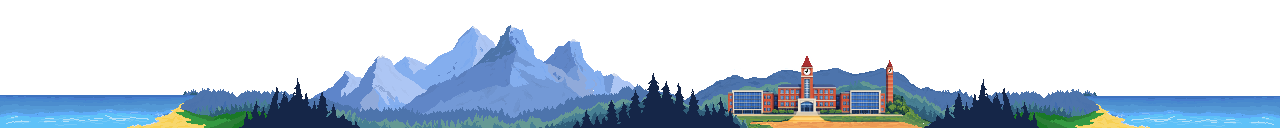
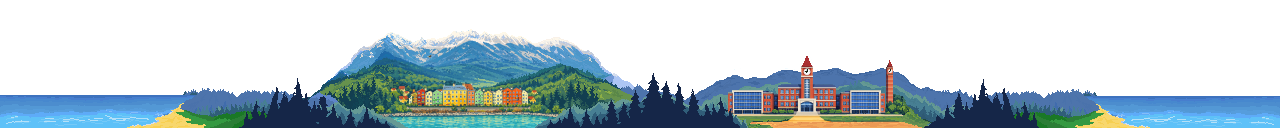
add ibk bg and photo gear text

Changed region(s): [[0.2188, 0.2188, 0.5, 1.0]]

diff --git a/informatics/js/data.js b/informatics/js/data.js
@@ -31,12 +31,10 @@ const translations = {
     "experience.title": "EDUCATION & EXPERIENCE",
     "room.bsc.title": "BSc. INFORMATICS",
     "room.bsc.summary":
-      "Computer Science foundation. (University of Innsbruck, 2022).",
-    "room.bsc.desc1":
-      "Bachelor's degree in Computer Science at the University of Innsbruck, completed in 2022.<br />",
-    "room.bsc.desc2":
-      "A broad foundation across core informatics disciplines — from algorithms and systems to machine learning and software development.",
-    "room.bsc.desc3": "Click to explore experience, competences & more.",
+      "My degree in computer science at the University of Innsbruck.",
+    "room.bsc.desc1": "It provided a great foundation in informatics!<br />",
+    "room.bsc.desc2": "And I graduated from it in 2022.",
+    "room.bsc.desc3": "Click to explore what I learned there.",
     "room.msc.title": "MSc. MEDIA & HUMAN-CENTRED COMPUTING",
     "room.msc.summary":
       "I graduated from TU Wien in 2026. Click here to here my thoughts about the programme.",
@@ -68,9 +66,9 @@ const translations = {
     "cs.focus.label": "FOCUS:",
     "cs.focus.value": "Interactive Media & UX, Critical Reflection, AI Ethics",
     "cs.footer": "use < and > to explore each chapter",
-    "chapter.1": "CHAPTER 1 \u2014 INNSBRUCK",
-    "chapter.2": "CHAPTER 2 \u2014 MASTER",
-    "chapter.3": "CHAPTER 3 \u2014 WORK EXPERIENCE",
+    "chapter.1": "CHAPTER 1: INNSBRUCK",
+    "chapter.2": "CHAPTER 2: VIENNA",
+    "chapter.3": "CHAPTER 3: WORK EXPERIENCE",
     "cs.work.placeholder": "[MORE COMING SOON]",
     "cs.work.placeholder.summary": "Placeholder for future entries.",
     "cs.work.placeholder.desc":
@@ -97,12 +95,12 @@ const translations = {
     "experience.title": "AUSBILDUNG & ERFAHRUNG",
     "room.bsc.title": "BSc. INFORMATIK",
     "room.bsc.summary":
-      "Informatik-Grundlagen. (Universit\u00e4t Innsbruck, 2022).",
+      "An der Universit\u00e4t Innsbruck hab ich einen meinen Informatik-Bachelor gemacht!",
     "room.bsc.desc1":
-      "Bachelorabschluss in Informatik an der Universit\u00e4t Innsbruck, 2022.<br />",
-    "room.bsc.desc2":
-      "Eine breite Grundlage \u00fcber alle Kerndisziplinen der Informatik — von Algorithmen und Systemen bis hin zu maschinellem Lernen und Softwareentwicklung.",
-    "room.bsc.desc3": "Klicke f\u00fcr Erfahrungen, Kompetenzen & mehr.",
+      "Er bot eine breite Grundlage \u00fcber alle Kerndisziplinen der Informatik<br />",
+    "room.bsc.desc2": "und ich hab ihn 2022 abgeschlossen.",
+    "room.bsc.desc3":
+      "Klicke um mehr zu Erfahren, was ich dort so gelernt hab.",
     "room.msc.title": "MSc. MEDIA & HUMAN-CENTRED COMPUTING",
     "room.msc.summary":
       "Abgeschlossen an der TU Wien in 2026. Klick hier f\u00fcr meine Gedanken über diesen Master.",
@@ -137,9 +135,9 @@ const translations = {
     "cs.location.label": "WOHNHAFT:",
     "cs.location.value": "Wien, \u00d6sterreich",
     "cs.footer": "< und > nutzen, um die Kapitel zu erkunden",
-    "chapter.1": "KAPITEL 1 \u2014 INNSBRUCK",
-    "chapter.2": "KAPITEL 2 \u2014 MASTER",
-    "chapter.3": "KAPITEL 3 \u2014 BERUFSERFAHRUNG",
+    "chapter.1": "1. STATION: INNSBRUCK",
+    "chapter.2": "2. STATION: WIEN",
+    "chapter.3": "3. STATION: BERUFSERFAHRUNG",
     "cs.work.placeholder": "[MEHR FOLGT BALD]",
     "cs.work.placeholder.summary":
       "Platzhalter f\u00fcr zuk\u00fcnftige Eintr\u00e4ge.",

diff --git a/photography/drpano/darkroom.css b/photography/drpano/darkroom.css
@@ -257,9 +257,39 @@ body {
   text-shadow: 0 0 32px rgba(230, 126, 34, 0.6);
 }
 
+/* zines section button */
+#zines-btn {
+  position: fixed;
+  inset: 0;
+  z-index: 30;
+  display: flex;
+  align-items: center;
+  justify-content: center;
+  font-family: "Press Start 2P", monospace;
+  font-size: 14px;
+  color: var(--text);
+  background: transparent;
+  border: none;
+  letter-spacing: 3px;
+  opacity: 0;
+  pointer-events: none;
+  transition: opacity 0.4s;
+  cursor: pointer;
+  text-shadow: 0 0 24px rgba(200, 168, 130, 0.5);
+}
+#zines-btn.visible {
+  opacity: 1;
+  pointer-events: all;
+}
+#zines-btn:hover {
+  color: var(--amber);
+  text-shadow: 0 0 32px rgba(230, 126, 34, 0.6);
+}
+
 /* shared label border for clickable overlay buttons */
 #portfolio-btn span,
 #gear-btn span,
+#zines-btn span,
 #leave-btn span {
   border: 1px solid rgba(200, 168, 130, 0.4);
   padding: 14px 22px;
@@ -321,9 +351,11 @@ body {
   position: relative;
   background: #130a00;
   border: 1px solid var(--muted);
-  padding: 40px 36px 36px;
-  max-width: 520px;
+  padding: 48px 48px 44px;
+  max-width: 720px;
   width: 90%;
+  max-height: 85vh;
+  overflow-y: auto;
 }
 #gear-modal-close {
   position: absolute;
@@ -342,10 +374,15 @@ body {
 }
 #gear-modal-content {
   font-family: "Courier New", monospace;
-  font-size: 13px;
+  font-size: 15px;
   color: var(--text);
   line-height: 1.9;
-  white-space: pre-wrap;
+}
+#gear-modal-content p {
+  margin-bottom: 1.4em;
+}
+#gear-modal-content p:last-child {
+  margin-bottom: 0;
 }
 
 /* leave darkroom button */
@@ -527,6 +564,14 @@ body {
   transition: width 0.8s ease;
 }
 
+/* hide nav zones and topbar back btn when the carousel is open */
+body.carousel-active .nav-zone,
+body.carousel-active #back-btn {
+  opacity: 0;
+  pointer-events: none;
+  transition: opacity 0.3s;
+}
+
 /* mobile */
 @media (max-width: 600px) {
   #topbar-title {
@@ -548,16 +593,12 @@ body {
   }
   #portfolio-btn,
   #gear-btn,
+  #zines-btn,
   #leave-btn {
     font-size: 8px;
     letter-spacing: 1px;
     padding: 0 10%;
     text-align: center;
-  }
-
-  /* narrow nav zones so zine cards are reachable */
-  body.carousel-active .nav-zone {
-    width: 10%;
   }
 }
 
@@ -566,6 +607,27 @@ body {
 /* hide the CTA while the carousel is up */
 #section-info.carousel-mode #section-cta {
   display: none;
+}
+
+/* carousel back button */
+#zc-back {
+  font-family: "Press Start 2P", monospace;
+  font-size: 10px;
+  color: var(--text);
+  border: 1px solid rgba(200, 168, 130, 0.4);
+  padding: 12px 22px;
+  background: rgba(13, 6, 0, 0.7);
+  cursor: pointer;
+  letter-spacing: 2px;
+  pointer-events: all;
+  margin-top: 18px;
+  transition:
+    border-color 0.2s,
+    color 0.2s;
+}
+#zc-back:hover {
+  border-color: rgba(230, 126, 34, 0.7);
+  color: var(--amber);
 }
 
 /* when carousel is hidden, block all pointer events inside it */

diff --git a/photography/drpano/index.html b/photography/drpano/index.html
@@ -66,6 +66,14 @@
       <span>WHAT I'M CURRENTLY SHOOTING WITH</span>
     </button>
 
+    <!-- Zines section button -->
+    <button
+      id="zines-btn"
+      onclick="window.openZineCarousel && window.openZineCarousel()"
+    >
+      <span>BROWSE MY ALBUMS</span>
+    </button>
+
     <!-- Gear modal -->
     <div id="gear-modal">
       <div id="gear-modal-box">
@@ -79,8 +87,10 @@
           ×
         </button>
         <div id="gear-modal-content">
-          I'm currently shooting mostly digital, for that I'm using an X-Pro 3.
-          Will post more here soon!
+          <p>I'm currently shooting mostly digital, for that I'm using an X-Pro 3. My lens of choice is the rather old 35mm 1.4, sometimes with a 1/4 diffusion filter. I love small lenses, so I also have a 18mm f2, and the 27mm 2.8.</p>
+          <p>Analogue equipment still includes an Olympus Mju-1 which I adore, and a beautiful black Yashica Electro 35 GT (but not 100% sure if the shutter is working perfectly on that one, woops).</p>
+          <p>I love to talk about photography equipment, and I've had a few cameras in the past. Started in analogue with Minoltas and digitally with Sony APC cameras and their A7 lineup. Had a Canon phase and the RP with an L lens for a while. That felt very professional but also way too heavy to carry around, so I was really happy when I discovered Fuji's lineup and smaller cameras. But at the end of the day, I learned that I don't really care too much about the specs, rather that a camera feels good and is fun to shoot. Because ultimately, that's what makes one go out and take photos!</p>
+          <p>(I've also been asked a lot by friends what I would recommend for beginners and might just add a brief guide here in the future so I can point people to it whenever they ask)</p>
         </div>
       </div>
     </div>

diff --git a/photography/drpano/zine-carousel.js b/photography/drpano/zine-carousel.js
@@ -23,6 +23,7 @@
         <button class="zc-btn zc-btn--next" aria-label="Next album">&#8250;</button>
       </div>
       <div id="zc-dots"></div>
+      <button id="zc-back" aria-label="Close album browser">← BACK</button>
     </div>
   `;
   document.body.appendChild(overlay);
@@ -235,20 +236,31 @@
     if (e.key === "ArrowRight") goTo(activeIndex + 1);
   });
 
-  window.showZineCarousel = function () {
+  window.openZineCarousel = function () {
     overlay.classList.add("visible");
     window.zineCarouselActive = true;
     document.getElementById("section-info").classList.add("carousel-mode");
     document.body.classList.add("carousel-active");
+    const zinesBtn = document.getElementById("zines-btn");
+    if (zinesBtn) zinesBtn.classList.remove("visible");
     update();
   };
 
+  // kept for darkroom.js navigate() calls; does NOT restore zines-btn
   window.hideZineCarousel = function () {
     overlay.classList.remove("visible");
     window.zineCarouselActive = false;
     document.getElementById("section-info").classList.remove("carousel-mode");
     document.body.classList.remove("carousel-active");
   };
+
+  // back button: close carousel and return to the zines section view
+  const backBtn = document.getElementById("zc-back");
+  backBtn.addEventListener("click", () => {
+    window.hideZineCarousel();
+    const zinesBtn = document.getElementById("zines-btn");
+    if (zinesBtn) zinesBtn.classList.add("visible");
+  });
 
   update();
 })();

diff --git a/photography/drpano/darkroom.js b/photography/drpano/darkroom.js
@@ -57,10 +57,6 @@ function updateUI() {
   prevName.textContent = SECTIONS[(((currentSection - 1) % N) + N) % N].name;
   nextName.textContent = SECTIONS[(currentSection + 1) % N].name;
 
-  if (s.name === "ZINES" && typeof window.showZineCarousel === "function") {
-    window.showZineCarousel();
-  }
-
   const leaveBtn = document.getElementById("leave-btn");
   if (leaveBtn) leaveBtn.classList.toggle("visible", s.name === "LEAVE DARKROOM");
 
@@ -69,6 +65,9 @@ function updateUI() {
 
   const gearBtn = document.getElementById("gear-btn");
   if (gearBtn) gearBtn.classList.toggle("visible", s.name === "GEAR");
+
+  const zinesBtn = document.getElementById("zines-btn");
+  if (zinesBtn) zinesBtn.classList.toggle("visible", s.name === "ZINES");
 
   const welcomeText = document.getElementById("welcome-text");
   if (welcomeText) welcomeText.classList.toggle("visible", s.name === "WELCOME");
@@ -81,7 +80,7 @@ function navigate(dir) {
   // hide carousel and section overlays first, then pan after they fade out
   document.getElementById("section-cta").textContent = "";
   if (typeof window.hideZineCarousel === "function") window.hideZineCarousel();
-  ["welcome-text", "portfolio-btn", "gear-btn", "leave-btn"].forEach((id) => {
+  ["welcome-text", "portfolio-btn", "gear-btn", "zines-btn", "leave-btn"].forEach((id) => {
     const el = document.getElementById(id);
     if (el) el.classList.remove("visible");
   });

diff --git a/informatics/css/game-world.css b/informatics/css/game-world.css
@@ -52,7 +52,7 @@
 .background-layer .layer-content {
   position: absolute;
   left: 0;
-  bottom: 256px;
+  bottom: 216px;
   top: auto;
   height: 300px;
   background-image: url("../img/background1280p.png");
@@ -78,7 +78,7 @@
   position: absolute;
   width: 384px;
   height: 285px;
-  bottom: 0;
+  bottom: -40px;
   background-image: url("../img/grass.png");
   background-size: 100% auto;
   background-repeat: no-repeat;
@@ -90,7 +90,7 @@
 
 .character {
   position: absolute;
-  bottom: 180px;
+  bottom: 150px;
   left: 50%;
   transform: translateX(-50%);
   width: 256px;
@@ -192,10 +192,13 @@
 
 .speech-bubble {
   position: absolute;
-  bottom: 340px;
+  bottom: 300px;
   left: 50%;
   transform: translateX(-50%);
-  transition: bottom 0.4s ease, left 0.4s ease, transform 0.4s ease;
+  transition:
+    bottom 0.4s ease,
+    left 0.4s ease,
+    transform 0.4s ease;
   background: #fff;
   color: #000;
   padding: 12px 18px;

diff --git a/photography/drpano/sections.js b/photography/drpano/sections.js
@@ -25,7 +25,6 @@ const SECTIONS = [
     imgX: 0.72,
     imgY: 0.4,
     scale: 1.8,
-    cta: "BROWSE ALBUMS →",
   },
   {
     name: "GEAR",
